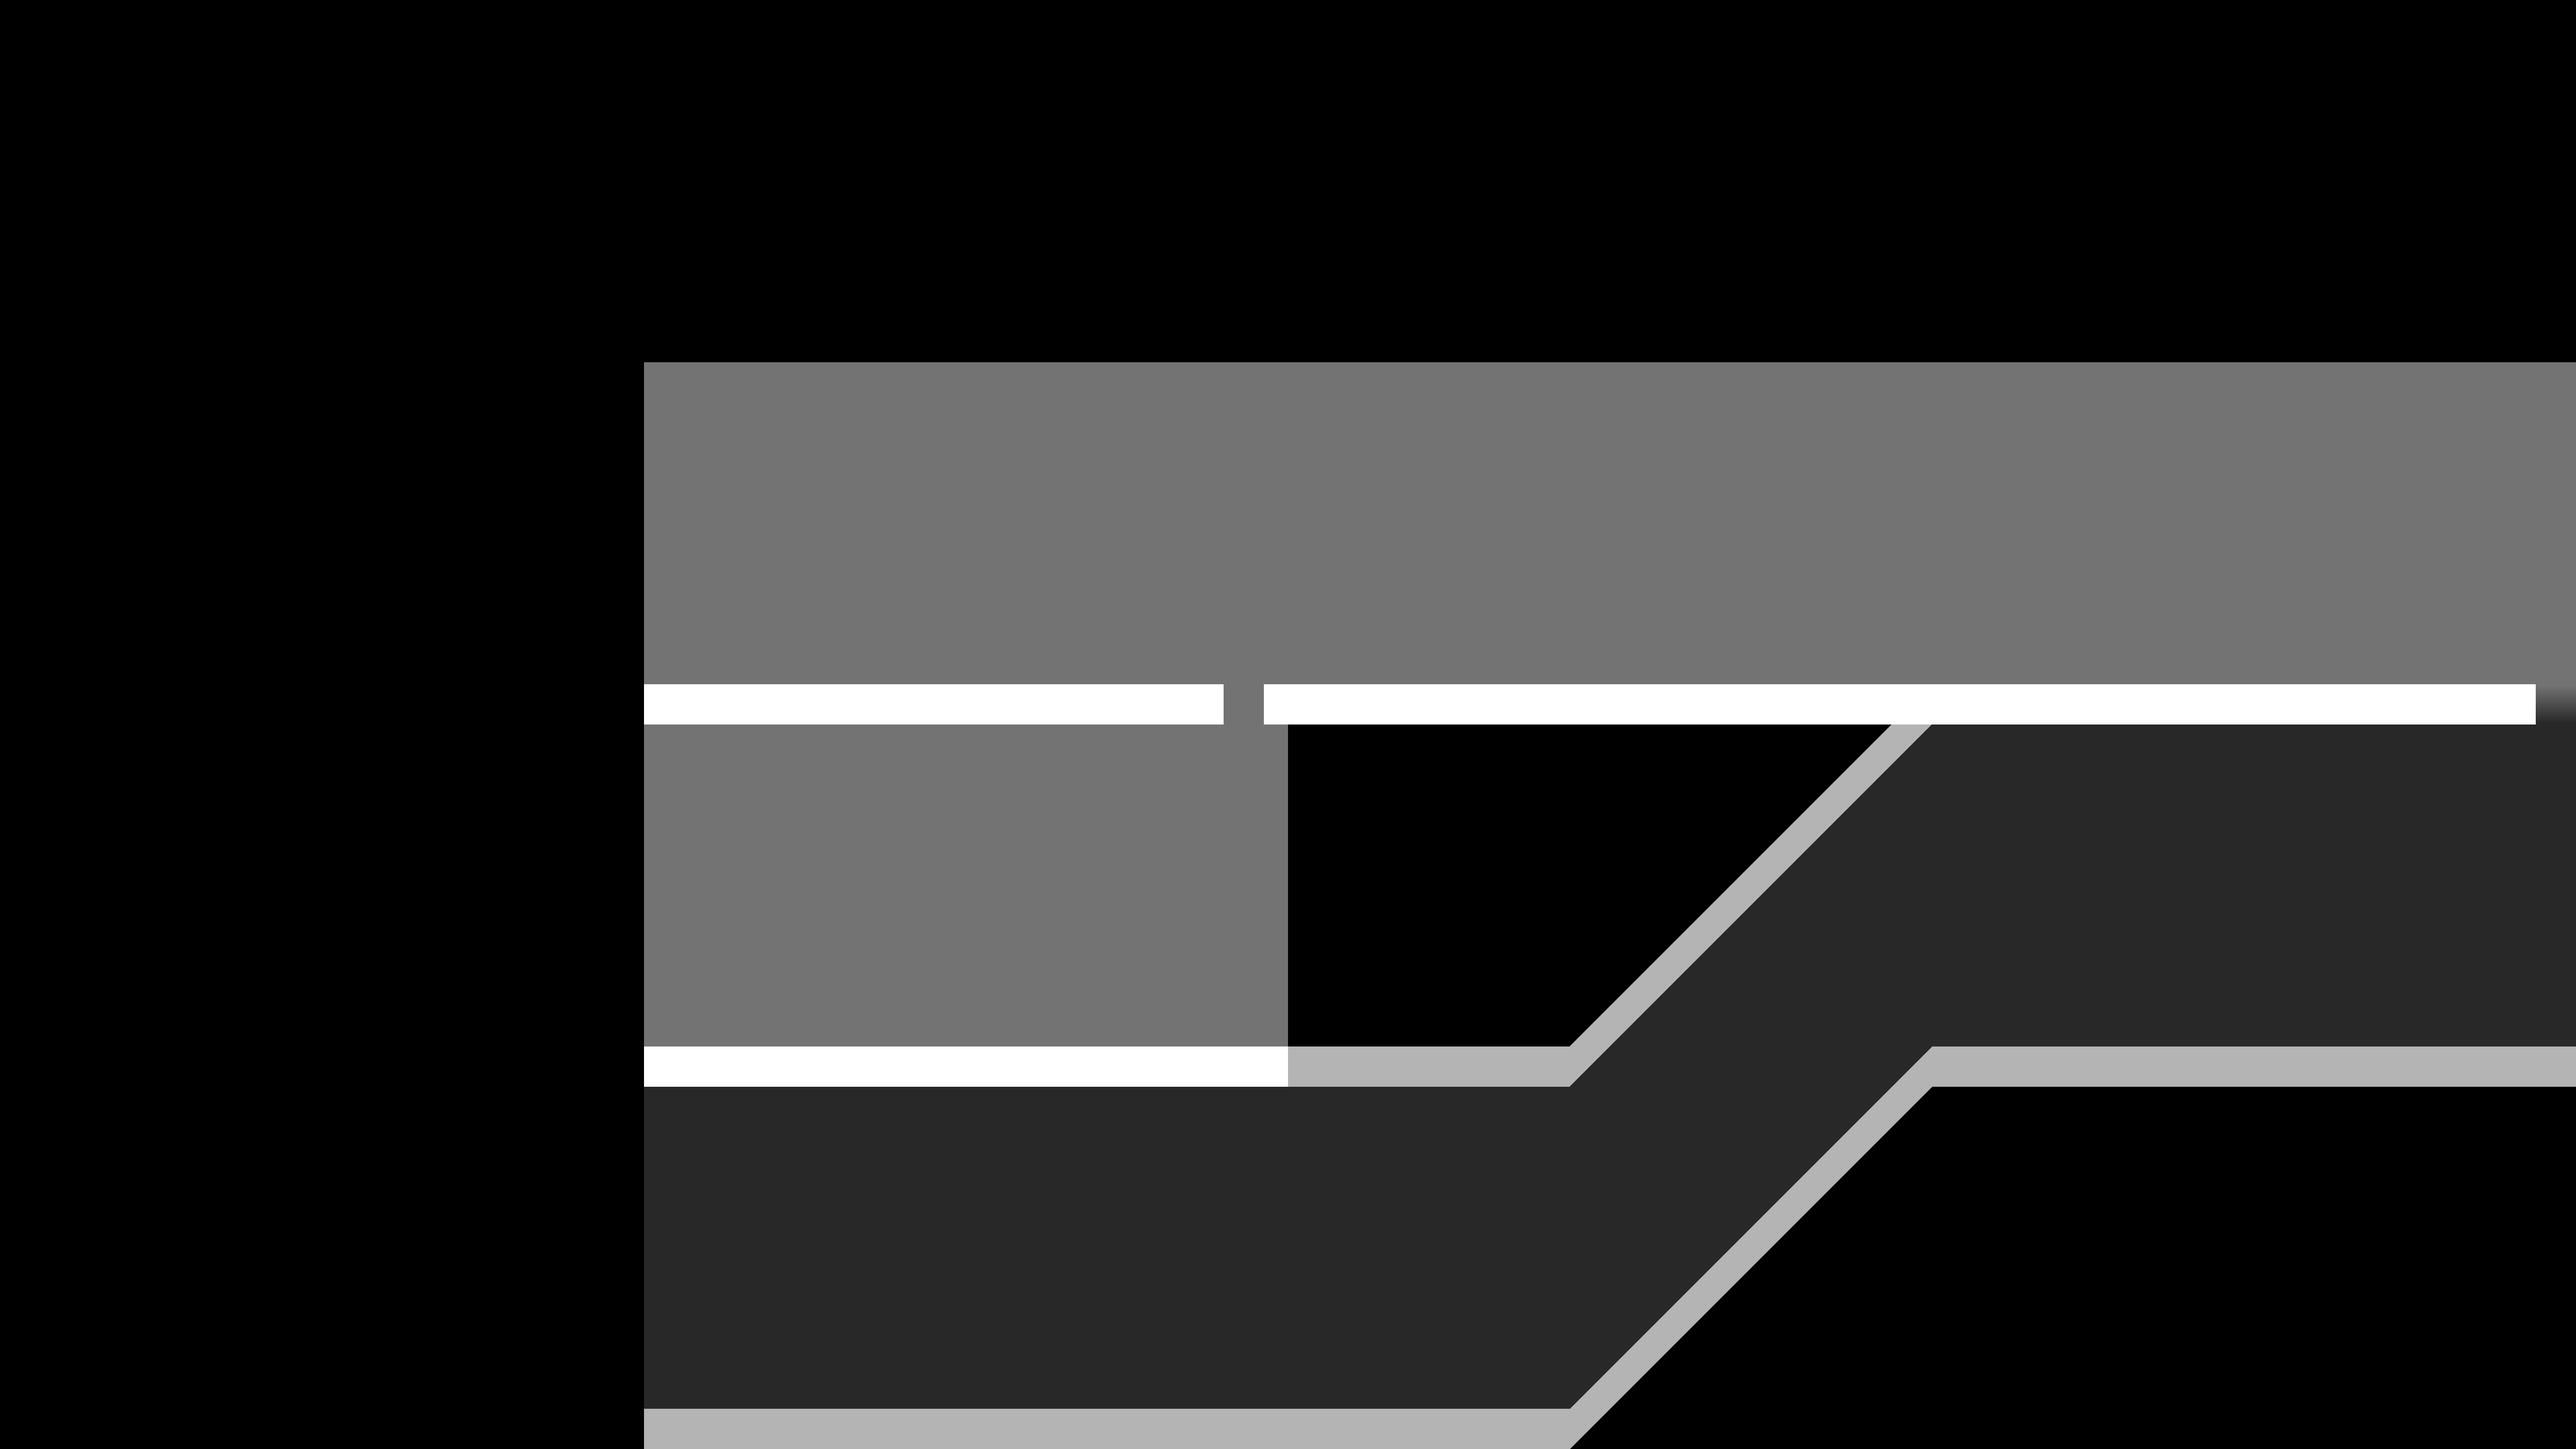
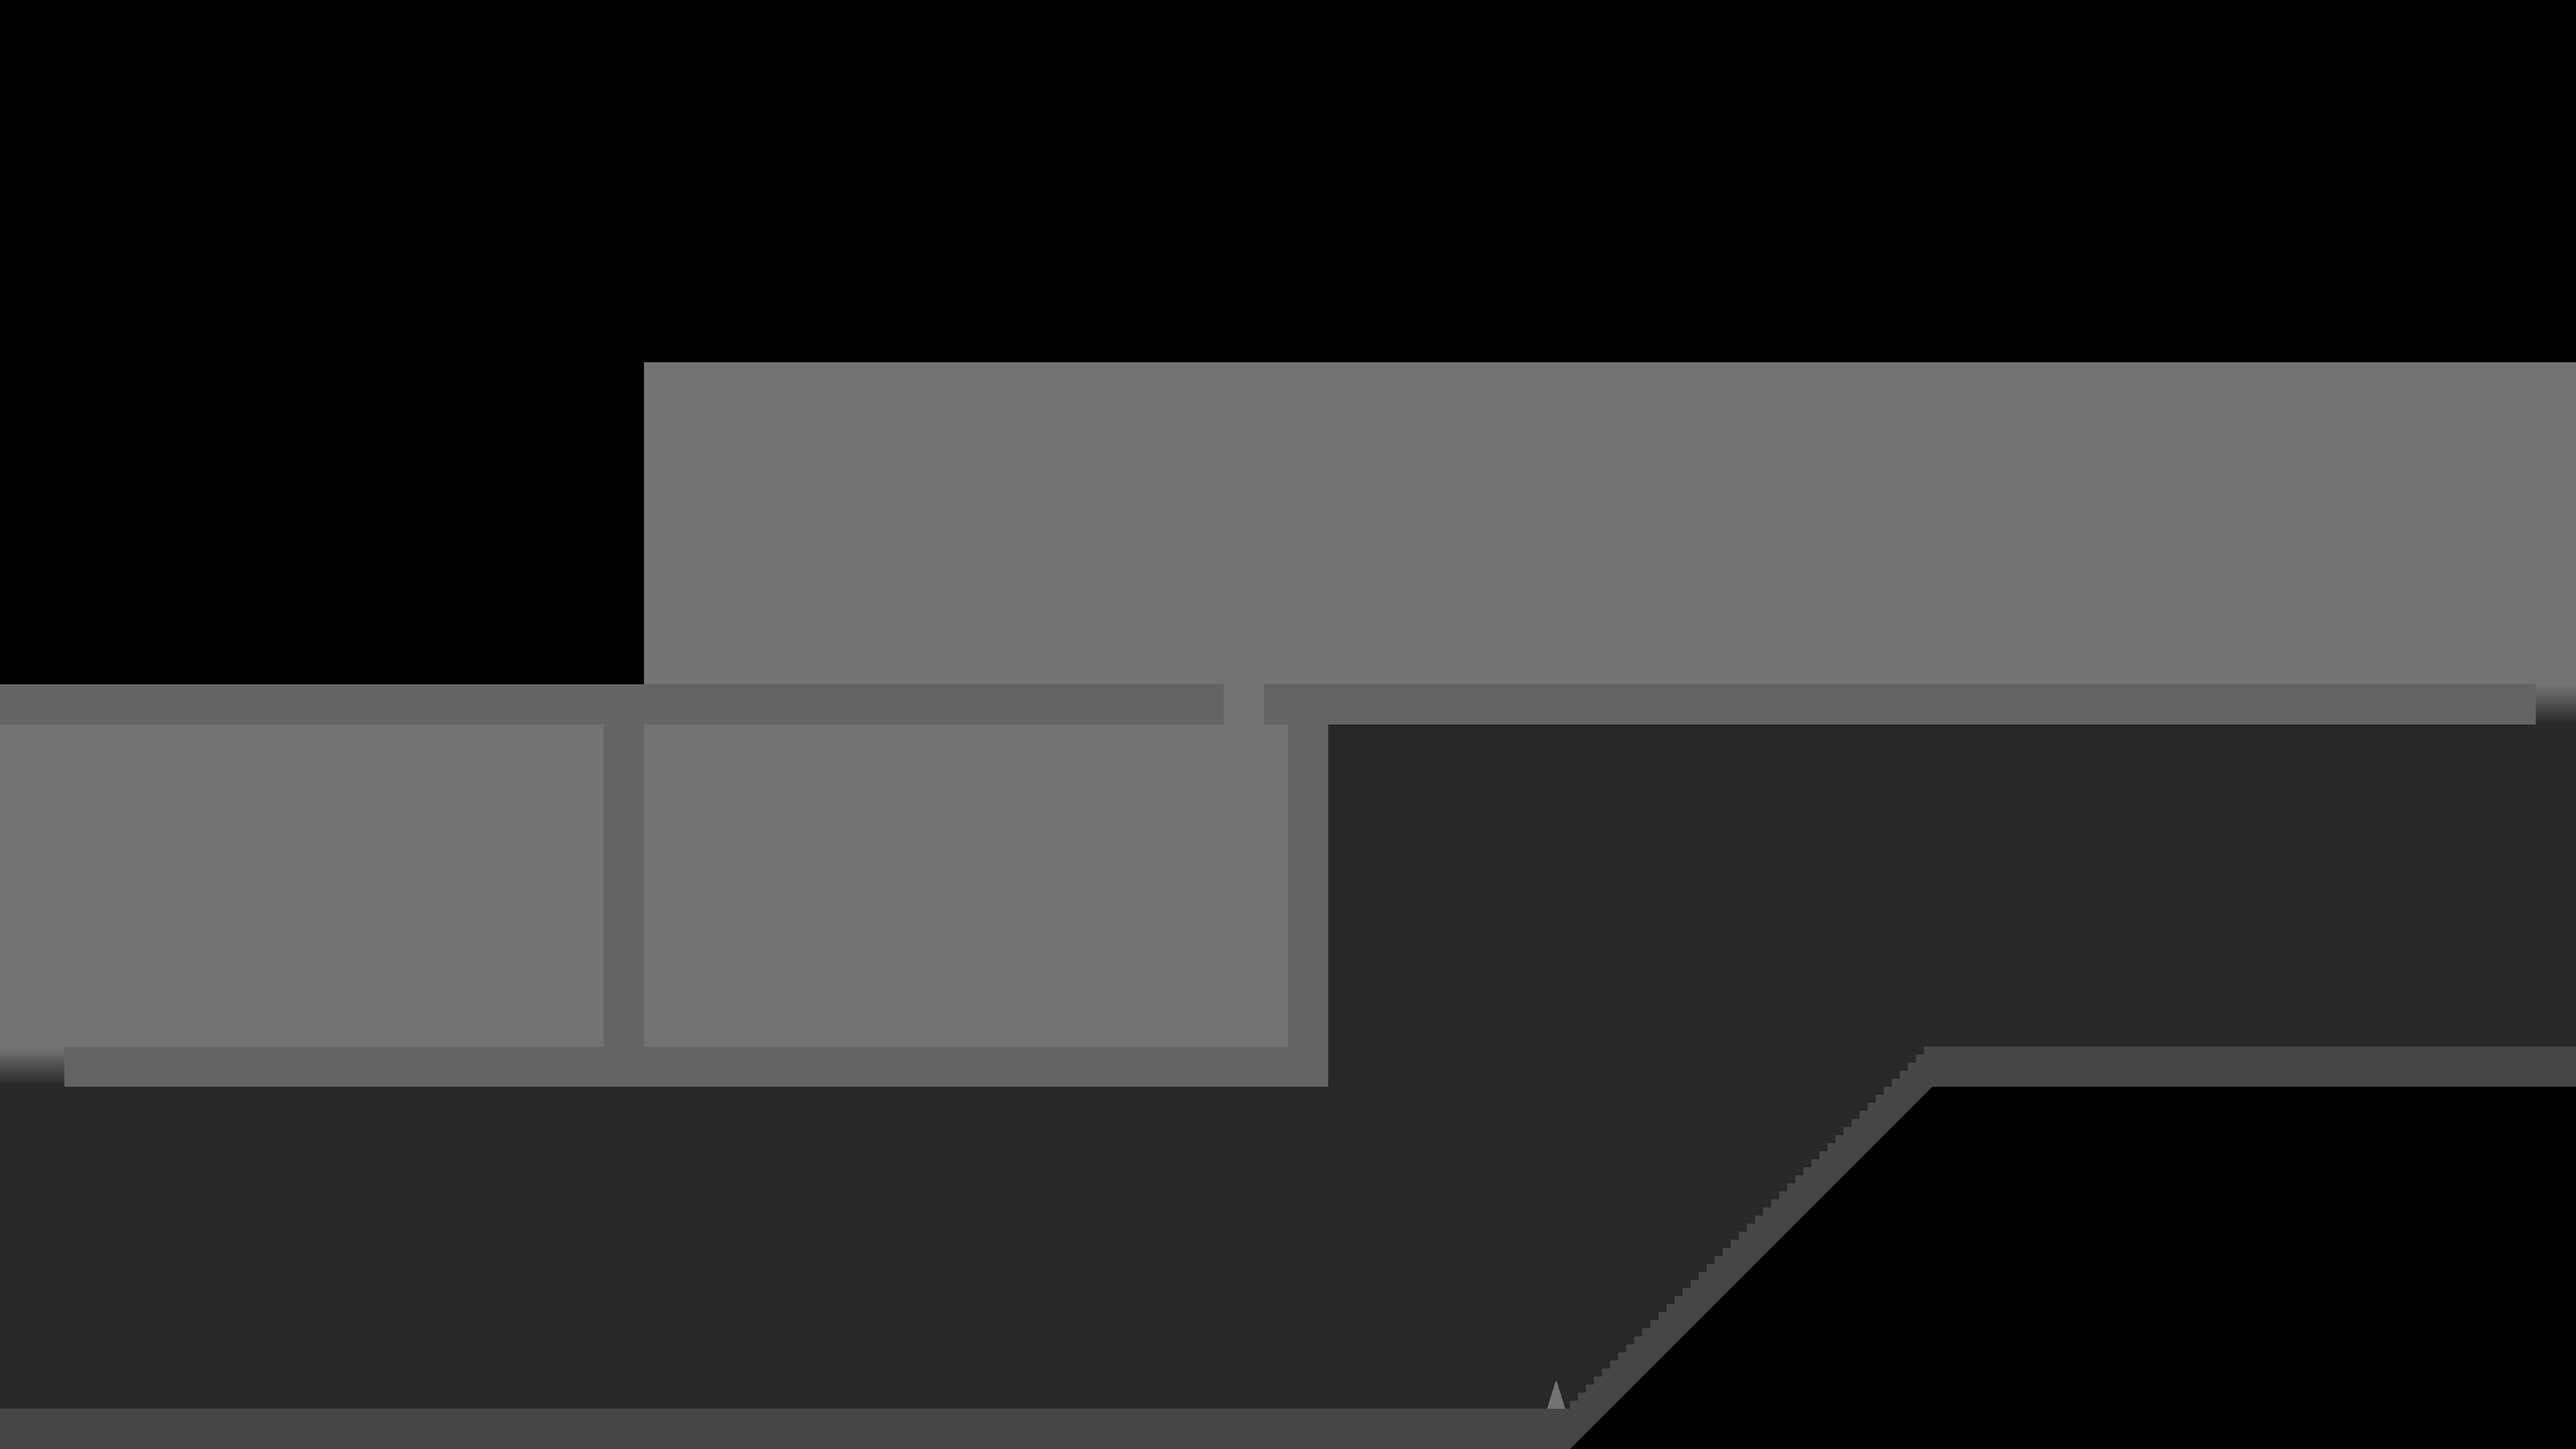
idk this is a frickin' school project why should i even document this

Changed region(s): [[0.0, 0.4688, 1.0, 1.0], [0.6875, 0.7188, 1.0, 0.8438]]

diff --git a/editor.py b/editor.py
@@ -1,8 +1,8 @@
 import os
-import json
-import pygame
 
 os.environ["PYGAME_HIDE_SUPPORT_PROMPT"] = "hide"
+import json
+import pygame
 import tkinter as tk
 from tkinter import filedialog
 from camera import Camera
@@ -12,13 +12,12 @@ from registry import entity_types, prop_types
 COLLECTABLES = ["Crowbar", "Glock"]
 PROPS = ["HealStation", "ShieldStation"]
 ENEMIES = ["Headcrab"]
-LAYERS = ["deco", "collision", "foreground", "lightmap"]
+LAYERS = ["deco", "collision", "foreground"]
 
 CHUNK_W, CHUNK_H = 1280, 720
 TILE_SIZE = 16
 
 master_layout_img = None
-master_lightmap_img = None
 chunk_cache = {}
 
 
@@ -26,6 +25,7 @@ def init():
     pygame.init()
     screen = pygame.display.set_mode((1280, 720), pygame.RESIZABLE)
     pygame.display.set_caption("Half-Life: 2D Editor")
+    pygame.display.set_icon(pygame.image.load("img/game.ico"))
     return screen, pygame.Surface((1280, 720))
 
 
@@ -64,24 +64,22 @@ def get_data_from_master(master_img, chunk_x, chunk_y):
             rect = pygame.Rect(real_x, real_y, TILE_SIZE, TILE_SIZE)
 
             if pixel.r > 0:
-                generated["collision"].append({"rect": rect, "id": 256 - pixel.r})
+                generated["collision"].append({"rect": rect, "id": pixel.r})
             if pixel.g > 0:
-                generated["deco"].append({"rect": rect, "id": 256 - pixel.g})
+                generated["deco"].append({"rect": rect, "id": pixel.g})
             if pixel.b > 0:
-                generated["foreground"].append({"rect": rect, "id": 256 - pixel.b})
+                generated["foreground"].append({"rect": rect, "id": pixel.b})
     return generated
 
 
 def get_active_chunks(cam_x, cam_y, chapter_data, active_enemies, active_props, assets):
-    global master_layout_img, master_lightmap_img, chunk_cache
+    global master_layout_img, chunk_cache
 
     if master_layout_img is None:
         master_layout_img = load_master(chapter_data.get("layout"))
-    if master_lightmap_img is None:
-        master_lightmap_img = load_master(chapter_data.get("lightmap"))
 
     cx, cy = int(cam_x // CHUNK_W), int(cam_y // CHUNK_H)
-    res = {"deco": [], "collision": [], "foreground": [], "lightmaps": []}
+    res = {"deco": [], "collision": [], "foreground": []}
 
     for dx in [-1, 0, 1]:
         for dy in [-1, 0, 1]:
@@ -92,26 +90,12 @@ def get_active_chunks(cam_x, cam_y, chapter_data, active_enemies, active_props, 
                 if master_layout_img:
                     gen = get_data_from_master(master_layout_img, cur_x, cur_y)
                     if gen:
-                        lm_surf = None
-                        if master_lightmap_img:
-                            try:
-                                lm_rect = pygame.Rect(
-                                    cur_x * CHUNK_W, cur_y * CHUNK_H, CHUNK_W, CHUNK_H
-                                )
-                                lm_surf = master_lightmap_img.subsurface(lm_rect).copy()
-                            except ValueError:
-                                pass
-                        gen["lightmap"] = lm_surf
                         chunk_cache[key] = gen
 
             cached = chunk_cache.get(key)
             if cached:
                 for l in ["deco", "collision", "foreground"]:
                     res[l].extend(cached[l])
-                if cached["lightmap"]:
-                    res["lightmaps"].append(
-                        (cached["lightmap"], (cur_x * CHUNK_W, cur_y * CHUNK_H))
-                    )
 
             c_info = chapter_data["chunks"].get(key)
             if c_info:
@@ -168,6 +152,7 @@ def mainloop(screen, window):
             185: (112, 0),
             175: (0, 16),
             165: (16, 16),
+            155: (32, 16),
         }.items()
     }
 
@@ -210,8 +195,8 @@ def mainloop(screen, window):
                 ):
                     json.dump(data, open(path, "w"), indent=4)
                 if event.key == pygame.K_r:
-                    global master_layout_img, master_lightmap_img
-                    master_layout_img = master_lightmap_img = None
+                    global master_layout_img
+                    master_layout_img = None
                     chunk_cache.clear()
 
             if event.type == pygame.MOUSEWHEEL:
@@ -266,13 +251,6 @@ def mainloop(screen, window):
             e.draw(screen, camera)
         for t in objs["foreground"]:
             screen.blit(texs.get(t["id"], texs[0]), camera.apply(t["rect"]))
-
-        for lm_surf, pos in objs["lightmaps"]:
-            screen.blit(
-                lm_surf,
-                camera.apply(pygame.Rect(*pos, CHUNK_W, CHUNK_H)),
-                special_flags=pygame.BLEND_MULT,
-            )
 
         pygame.draw.rect(
             screen, "#FFD900", camera.apply(pygame.Rect(gx, gy, 16, 16)), 2

diff --git a/main.py b/main.py
@@ -566,9 +566,8 @@ def mainloop(screen, real_window):
         185: tilesheet.get_image(112, 0, tile_size, tile_size),  # Dunkel
         175: tilesheet.get_image(0, 16, tile_size, tile_size),  # Säure
         165: tilesheet.get_image(16, 16, tile_size, tile_size),  # Stachel
+        155: tilesheet.get_image(32, 16, tile_size, tile_size),  # Boden
     }
-
-    fog_surface = pygame.Surface((1280, 720))
 
     show_loading(screen, real_window)
 
